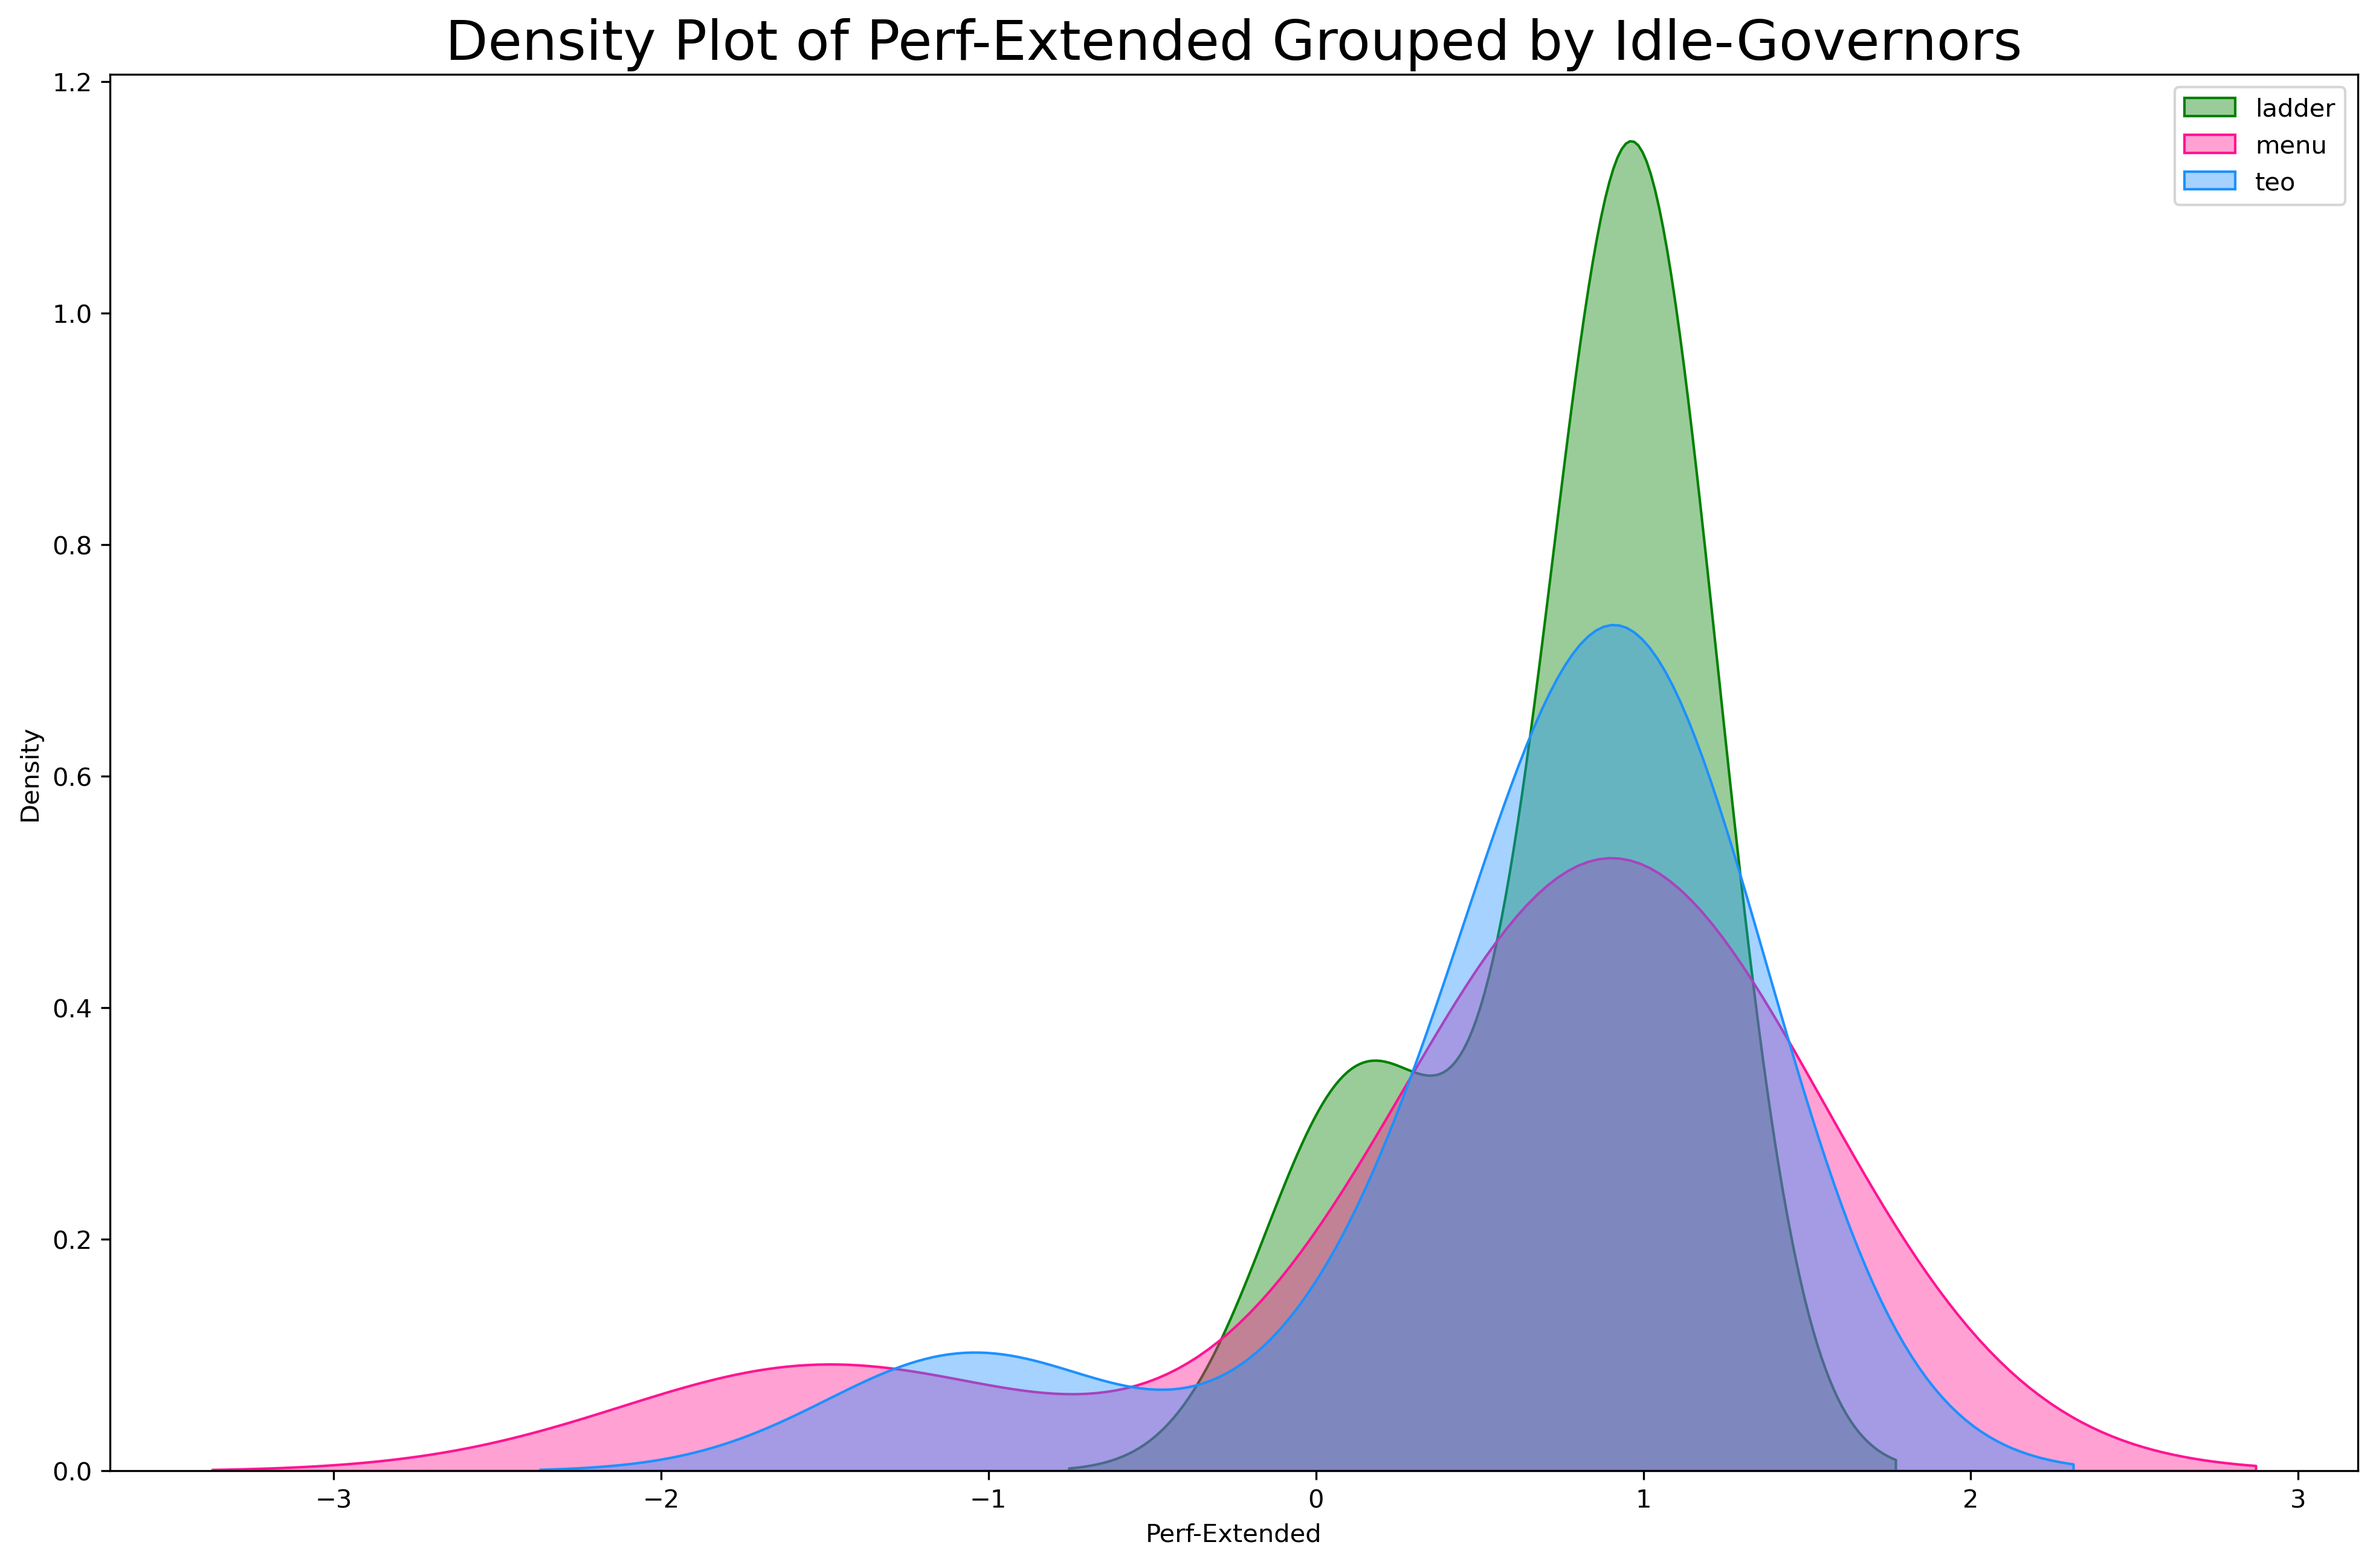
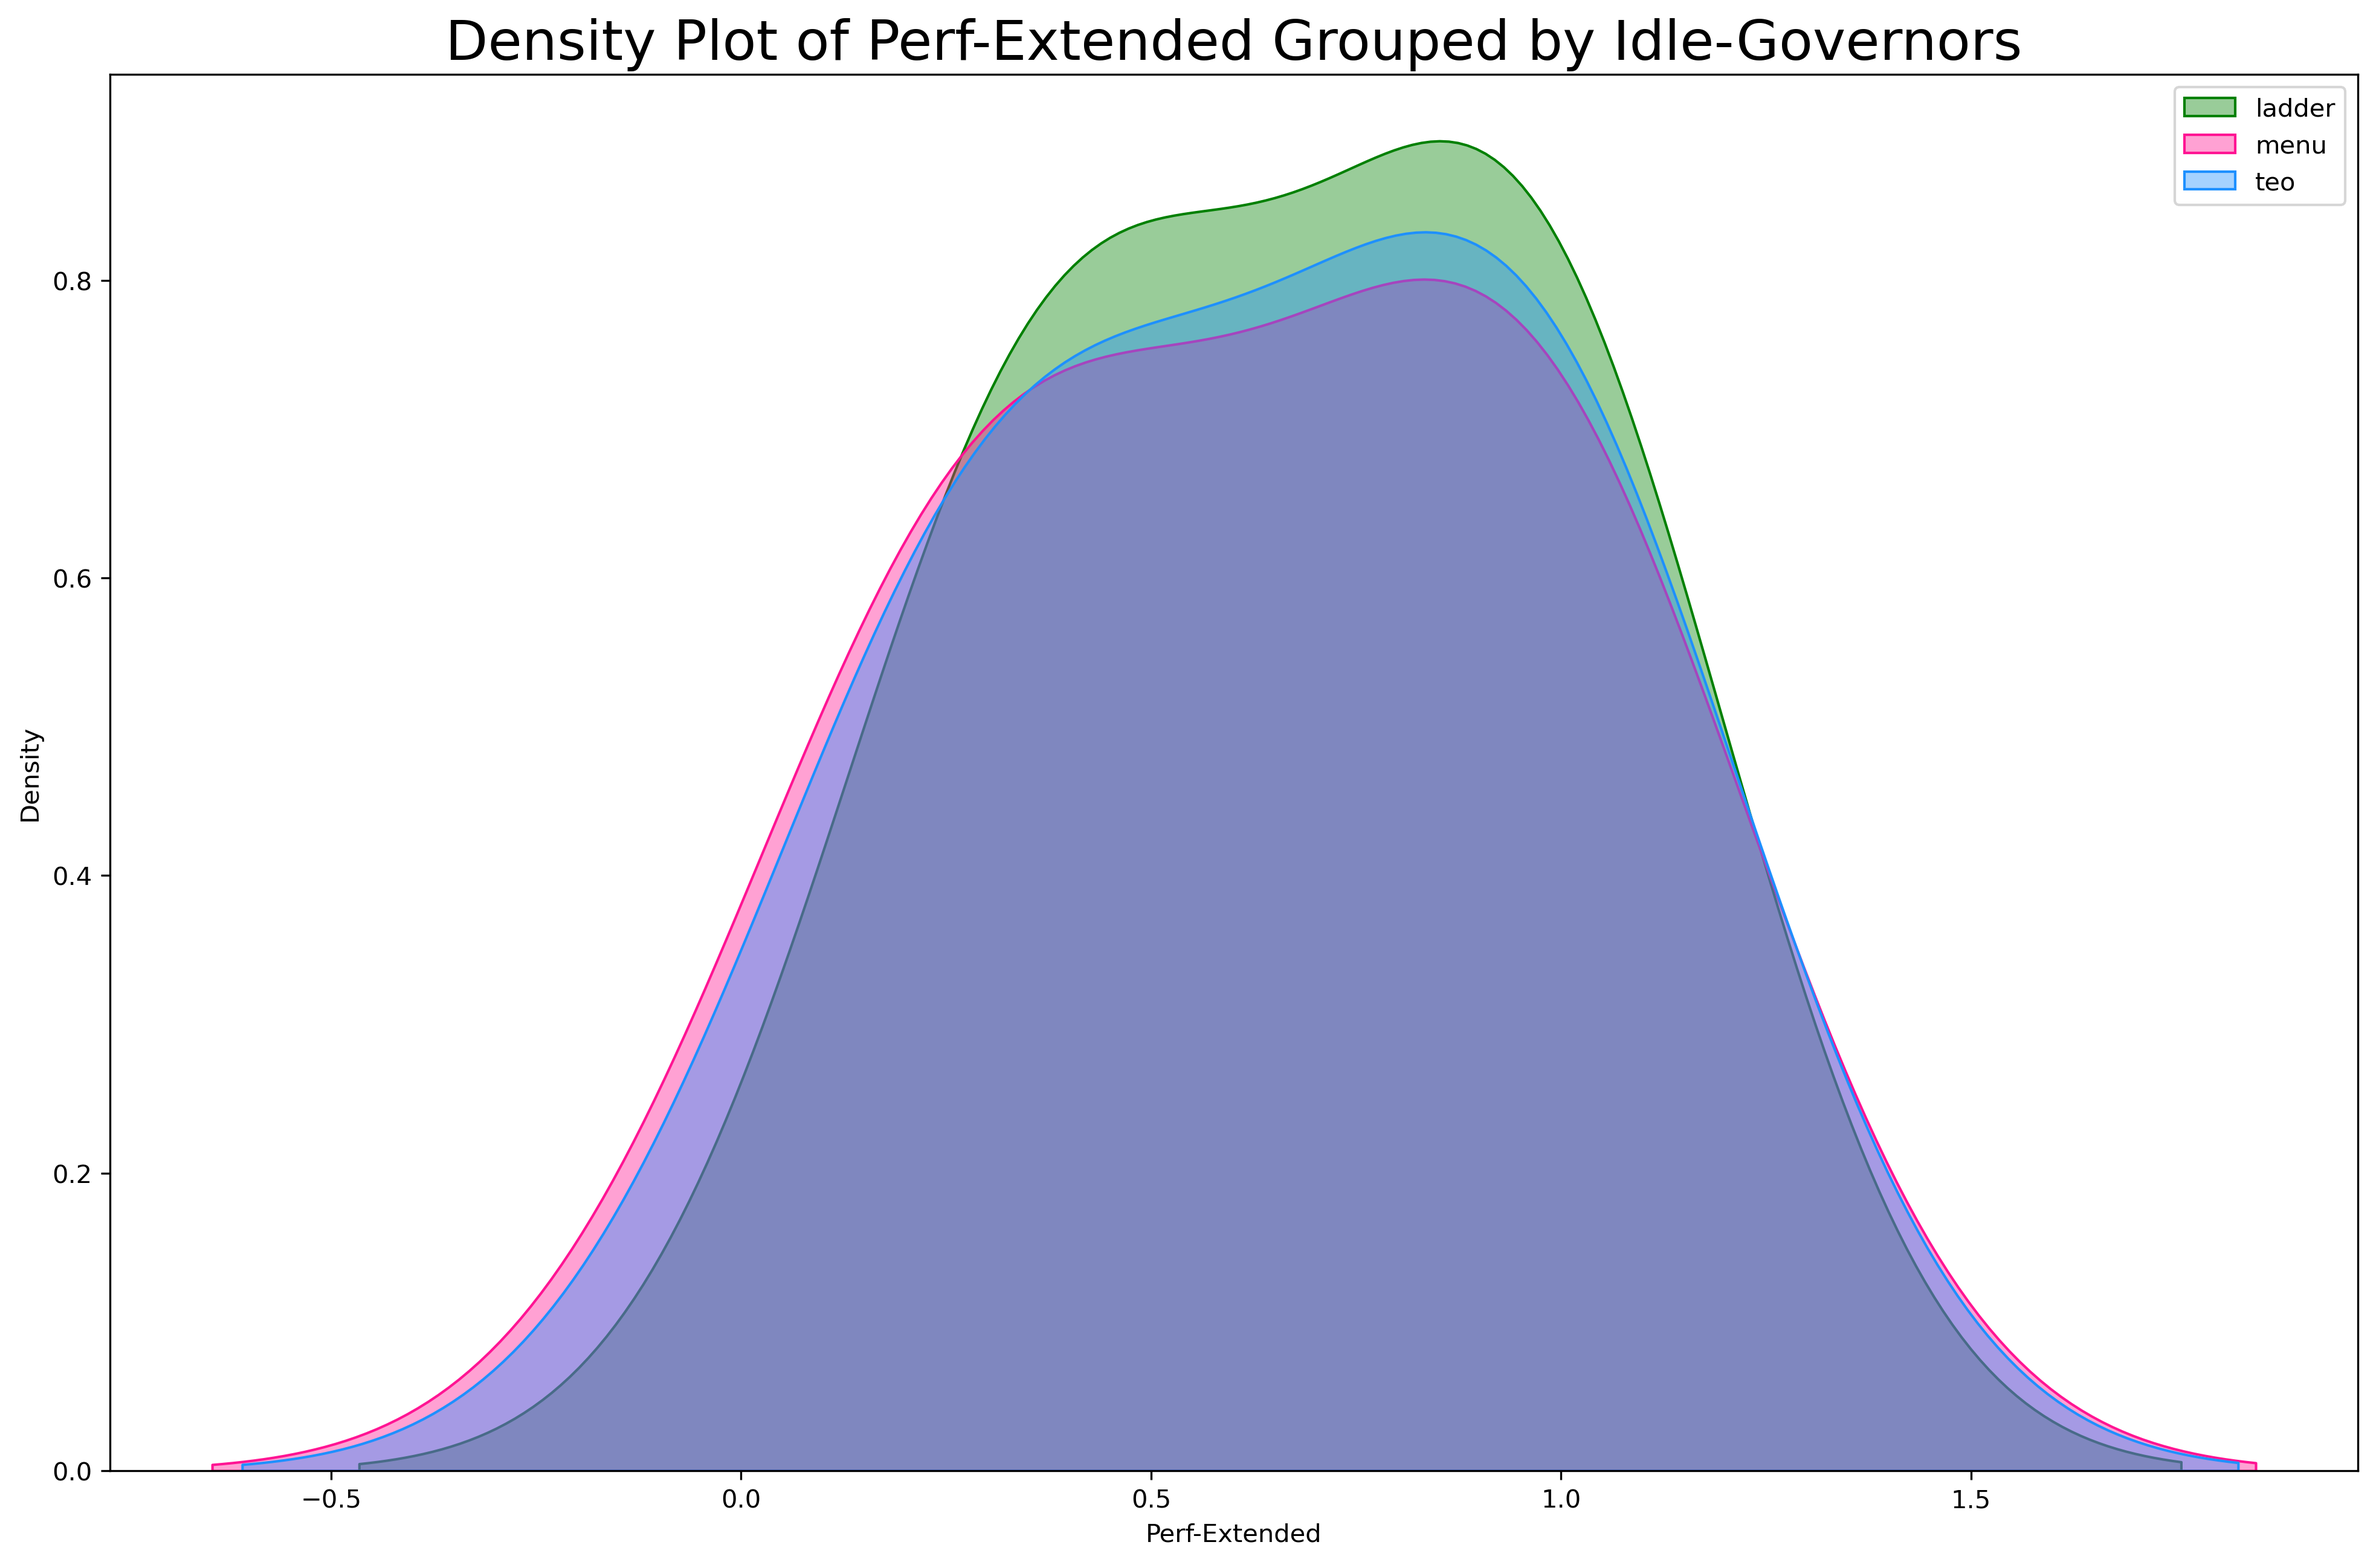
idle-gov-comp: enhanced performance metric

Changed region(s): [[0.0931, 0.0927, 0.9619, 0.9579]]

diff --git a/idle-gov-comp/utils.py b/idle-gov-comp/utils.py
@@ -6,27 +6,27 @@ import re
 
 
 def read_gov(file_name : str):
-    '''Reads a csv and returns a pandas dataframe'''
+    """Read csv and return a pandas dataframe."""
     gov_data = pd.read_csv(file_name, delim_whitespace=True,
                       usecols=['C-State', 'Sleep[ns]', 'Miss', 'Below'])
     return gov_data
 
 
 def read_json(file_name : str):
-    '''Reads a JSON file and returns the data'''
+    """Read JSON file and return the data."""
     with open(file_name, 'r', encoding='utf-8') as json_file:
         data = json.load(json_file)
     return data
 
 
 def save_json(data : list, file_name : str):
-    '''Saves the data into a JSON'''
+    """Save data into JSON."""
     with open(file_name, 'w', encoding='utf-8') as json_file:
         json.dump(data, json_file, indent=2)
 
 
 def unique_res(residencies, target_cpu=0):
-    ''' Returns the set of residencies for given CPU default is 0'''
+    """Return the set of residencies for given CPU default is 0."""
     res_dict = residencies[list(residencies.keys())[target_cpu]]
     res = set()
     for state in res_dict.values():
@@ -36,9 +36,12 @@ def unique_res(residencies, target_cpu=0):
 
 
 def find_res(res : list, cstate : str, below : bool = None, target_cpu : int = 0):
-    '''Returns the residency time in ns below or above the cstate
+    """
+    Return the residency time in ns below or above the cstate.
+
     If target is True then below is ignored and the res in ns corresponding to the
-    cstate is returned'''
+    cstate is returned.
+    """
     res_dict = res[list(res.keys())[target_cpu]]
     res = unique_res(res)
     target_res = None
@@ -49,7 +52,7 @@ def find_res(res : list, cstate : str, below : bool = None, target_cpu : int = 0
             break
 
     if below is None:
-        return (target_res * 1000)
+        return target_res * 1000
 
     index = res.index(int(target_res))
     if not below:
@@ -68,7 +71,38 @@ def normalize(time : int, prev_res : int, next_res : int, target_res : int, weig
     return scale_factor * norm_value
 
 
+def normalize_above(time : int, target_res : int, weight : int):
+    """Normalize a delta time according to the correspoding residency time.
+
+    In order to have values between 0 and 1, weight needs to be in that range too.
+    This function ensures to normalize values disregarding the underlying data."""
+    data_min = 0
+    data_max = target_res
+    norm_value = (time - data_min) / (data_max - data_min)
+    return weight * norm_value
+
+
+def normalize_below(time : int, max_res : int, next_res : int, weight : int):
+    """
+    Normalize a delta time according to the correspoding residency time.
+
+    In order to have values between 0 and 1, weight needs to be in that range too.
+    This function ensures to normalize values disregarding the underlying data.
+    """
+    # Still need this for the case, that the slight offset defines it below or above the bound,
+    # even though the sleep time does not validate it
+    data_min = next_res
+    data_max = max_res
+    if data_min == data_max:
+        # If we enter the second to last and last C-State we just return the weight
+        return weight
+    time = min(time, max_res)
+    norm_value = (time - data_min) / (data_max - data_min)
+    return weight * abs(1 - norm_value)
+
+
+
 def cstate_key(cstate):
-    '''Alphanumeric sort for C-States'''
+    """Alphanumeric sort for C-States."""
     return [int(text) if text.isdigit() else text.lower()
             for text in re.split('([0-9]+)', str(cstate))]

diff --git a/idle-gov-comp/compare-gov.py b/idle-gov-comp/compare-gov.py
@@ -1,10 +1,10 @@
 #!/usr/bin/env python3
 
-'''
+"""
 This module defines a metric used for comparing idle-governors.
 
 For input it uses the data collected by the perf-power module.
-'''
+"""
 
 import pandas as pd
 import utils
@@ -14,12 +14,12 @@ GOVS = ['ladder', 'menu', 'teo']
 EVENT_FILE = 'idle-governor-events.txt'
 RES_FILE = 'c-state-idle-residency.json'
 PERFORMANCE_FILE = 'idle-governor-performance.json'
-ABOVE_PEN_WEIGHT = 10
-BELOW_PEN_WEIGHT = 1
+ABOVE_PEN_WEIGHT = 0.1
+BELOW_PEN_WEIGHT = 0.8
 
 
 def simple_perf(gov_data : pd.DataFrame, cstate : str):
-    '''Returns the estimated performance of an idle-governor'''
+    """Return the estimated performance of an idle-governor."""
     gov_data = gov_data[gov_data['C-State'] == cstate].reset_index(drop=True)
     if len(gov_data) == 0:
         return None
@@ -37,8 +37,7 @@ def simple_perf(gov_data : pd.DataFrame, cstate : str):
 
 
 def extended_perf(gov_data : pd.DataFrame, res : dict, cstate : str):
-    '''Returns the estimated performance of an idle-governor
-    The extended version utilizes the delta of the sleep and the residency bounds'''
+    """Return the estimated performance of an idle-governor utilizing the delta of sleep and res."""
     gov_data = gov_data[gov_data['C-State'] == cstate].reset_index(drop=True)
     if len(gov_data) == 0:
         return None
@@ -49,7 +48,11 @@ def extended_perf(gov_data : pd.DataFrame, res : dict, cstate : str):
             next_res = utils.find_res(res, cstate, True)
             target_res = utils.find_res(res, cstate)
             weight = (BELOW_PEN_WEIGHT if row['Below'] == '1' else ABOVE_PEN_WEIGHT)
-            pen = utils.normalize(row['Sleep[ns]'], prev_res, next_res, target_res, weight)
+            max_res = (max(utils.unique_res(res)) * 1000)
+            if row['Below'] == '0':
+                pen = utils.normalize_above(row['Sleep[ns]'], target_res, weight)
+            else:
+                pen = utils.normalize_below(row['Sleep[ns]'], max_res, next_res, weight)
             perf += (1 - pen)
         else:
             perf += 1
@@ -58,7 +61,7 @@ def extended_perf(gov_data : pd.DataFrame, res : dict, cstate : str):
 
 
 def main():
-    '''Compares all Governors in the GOVS variable with each other'''
+    """Compare all Governors in the GOVS variable."""
     perf = []
     for gov in GOVS:
         gov_data = utils.read_gov(f'examples/{gov}/{EVENT_FILE}')
@@ -71,7 +74,6 @@ def main():
                          'Perf-Simple' : perf_simple,
                          'Perf-Extended' : perf_extended,
                          'Occurences' : len(gov_data[gov_data['C-State'] == cstate])})
-            extended_perf(gov_data, res, cstate)
         occ_total = sum(entry['Occurences'] for entry in perf if entry.get('Idle-Governor') == gov)
         perf_simple_total = sum(entry['Perf-Simple']*entry['Occurences']/occ_total
                                 for entry in perf if entry.get('Idle-Governor') == gov)

diff --git a/idle-gov-comp/visualize-comp.py b/idle-gov-comp/visualize-comp.py
@@ -55,7 +55,7 @@ def scatter_plot(perf_df : pd.DataFrame, file_name : str = 'scatter'):
     perf_df = perf_df[perf_df['C-State'] != 'all']
     perf_df = perf_df.iloc[perf_df['C-State'].apply(utils.cstate_key).argsort()]
     sns.scatterplot(x='C-State', y='Perf-Extended', hue='Idle-Governor', size='Occurences',
-                    sizes=(10, 200), palette=COLORS, data=perf_df, alpha=0.6)
+                    sizes=(10, 200), palette=COLORS, data=perf_df, alpha=0.4)
 
 
 def main():
